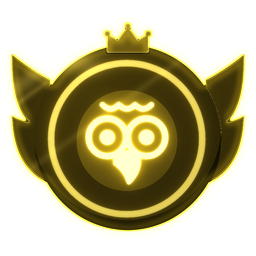
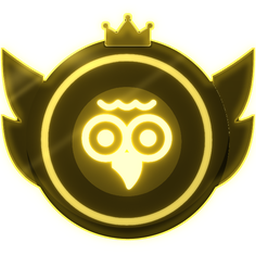
獲得中バッジの黄色い縁をバッジの丸に合わせ、小さかったネオン系バッジを拡大
Claude-Session: https://claude.ai/code/session_01TtjSjxUbG44cSCDU41LbQi

diff --git a/index.html b/index.html
@@ -319,6 +319,9 @@ body.sv-lock{overflow:hidden}
 .bitem.locked .badge{filter:grayscale(1);opacity:.35}
 .bitem.locked .badge b{opacity:.7}
 .bitem.newest .badge{outline:3px solid var(--gold);outline-offset:3px}
+.bitem.newest .badge.has-img{outline:none}
+.bitem.newest .badge.has-img::after{content:"";position:absolute;left:50%;top:var(--cy,50%);width:calc(80% + 12px);aspect-ratio:1;border-radius:50%;
+  transform:translate(-50%,-50%);border:3px solid var(--gold);box-sizing:border-box;pointer-events:none}
 .toast{position:fixed;left:50%;top:calc(14px + env(safe-area-inset-top,0px));z-index:80;transform:translate(-50%,-160%);transition:transform .4s cubic-bezier(.3,1.4,.5,1);
   display:flex;align-items:center;gap:12px;background:var(--surface);border:2px solid var(--gold);border-bottom-width:5px;border-radius:18px;padding:10px 16px;max-width:calc(100% - 32px);box-shadow:0 10px 30px rgba(0,0,0,.18)}
 .toast.show{transform:translate(-50%,0)}
@@ -518,7 +521,8 @@ function dkey(d){return d.getFullYear()+'-'+(d.getMonth()+1)+'-'+d.getDate()}
 function today(){return dkey(new Date())}
 // ---- daily goal, points and badges ----
 const BADGES=[0,10,30,50,100,150,200,250,300,350,400,450,500,600,700,800,900,1000,1500,2000,2500,3000,3500,4000,4500,5000,6000,7000,8000,9000,10000];
-const BADGE_ART=new Set(BADGES);   // every badge now has a picture in badges/badge-<points>.png   // badges that have a picture in badges/badge-<points>.png
+const BADGE_ART=new Set(BADGES);
+const CROWN=new Set([50,200,350,500,800,1500,3000,4500,7000,10000]);   // crowned badges sit a little lower in their picture   // every badge now has a picture in badges/badge-<points>.png   // badges that have a picture in badges/badge-<points>.png
 function todayState(){const t=today();if(S.td.d!==t)S.td={d:t,pts:{},done:{}};return S.td}
 function doneCount(){return Object.keys(todayState().done).length}
 function checkGoal(){
@@ -551,7 +555,7 @@ const PARROT_FACE=`<svg class="bface" viewBox="0 0 100 100" aria-hidden="true">
 </svg>`;
 function badgeHTML(p,small){
   const tier=BADGES.indexOf(p), hue=[45,30,10,340,300,265,220,190,160,130][Math.min(9,Math.floor(tier/3.1))];
-  if(BADGE_ART.has(p))return `<div class="badge has-img"><img src="badges/badge-${p}.png" alt="${p}ポイントのバッジ"></div>`;
+  if(BADGE_ART.has(p))return `<div class="badge has-img" style="--cy:${CROWN.has(p)?54:50}%"><img src="badges/badge-${p}.png" alt="${p}ポイントのバッジ"></div>`;
   return `<div class="badge" style="--c1:hsl(${hue} 95% 62%);--c2:hsl(${hue} 85% 42%)">${PARROT_FACE}</div>`;
 }
 let toastTimer=null;

diff --git a/src/template.html b/src/template.html
@@ -301,6 +301,9 @@ body.sv-lock{overflow:hidden}
 .bitem.locked .badge{filter:grayscale(1);opacity:.35}
 .bitem.locked .badge b{opacity:.7}
 .bitem.newest .badge{outline:3px solid var(--gold);outline-offset:3px}
+.bitem.newest .badge.has-img{outline:none}
+.bitem.newest .badge.has-img::after{content:"";position:absolute;left:50%;top:var(--cy,50%);width:calc(80% + 12px);aspect-ratio:1;border-radius:50%;
+  transform:translate(-50%,-50%);border:3px solid var(--gold);box-sizing:border-box;pointer-events:none}
 .toast{position:fixed;left:50%;top:calc(14px + env(safe-area-inset-top,0px));z-index:80;transform:translate(-50%,-160%);transition:transform .4s cubic-bezier(.3,1.4,.5,1);
   display:flex;align-items:center;gap:12px;background:var(--surface);border:2px solid var(--gold);border-bottom-width:5px;border-radius:18px;padding:10px 16px;max-width:calc(100% - 32px);box-shadow:0 10px 30px rgba(0,0,0,.18)}
 .toast.show{transform:translate(-50%,0)}
@@ -498,7 +501,8 @@ function dkey(d){return d.getFullYear()+'-'+(d.getMonth()+1)+'-'+d.getDate()}
 function today(){return dkey(new Date())}
 // ---- daily goal, points and badges ----
 const BADGES=[0,10,30,50,100,150,200,250,300,350,400,450,500,600,700,800,900,1000,1500,2000,2500,3000,3500,4000,4500,5000,6000,7000,8000,9000,10000];
-const BADGE_ART=new Set(BADGES);   // every badge now has a picture in badges/badge-<points>.png   // badges that have a picture in badges/badge-<points>.png
+const BADGE_ART=new Set(BADGES);
+const CROWN=new Set([50,200,350,500,800,1500,3000,4500,7000,10000]);   // crowned badges sit a little lower in their picture   // every badge now has a picture in badges/badge-<points>.png   // badges that have a picture in badges/badge-<points>.png
 function todayState(){const t=today();if(S.td.d!==t)S.td={d:t,pts:{},done:{}};return S.td}
 function doneCount(){return Object.keys(todayState().done).length}
 function checkGoal(){
@@ -531,7 +535,7 @@ const PARROT_FACE=`<svg class="bface" viewBox="0 0 100 100" aria-hidden="true">
 </svg>`;
 function badgeHTML(p,small){
   const tier=BADGES.indexOf(p), hue=[45,30,10,340,300,265,220,190,160,130][Math.min(9,Math.floor(tier/3.1))];
-  if(BADGE_ART.has(p))return `<div class="badge has-img"><img src="badges/badge-${p}.png" alt="${p}ポイントのバッジ"></div>`;
+  if(BADGE_ART.has(p))return `<div class="badge has-img" style="--cy:${CROWN.has(p)?54:50}%"><img src="badges/badge-${p}.png" alt="${p}ポイントのバッジ"></div>`;
   return `<div class="badge" style="--c1:hsl(${hue} 95% 62%);--c2:hsl(${hue} 85% 42%)">${PARROT_FACE}</div>`;
 }
 let toastTimer=null;

diff --git a/sw.js b/sw.js
@@ -1,5 +1,5 @@
 // Network first for the app itself so updates show right away; cached copy when offline.
-const CACHE='phrase1000-v18';
+const CACHE='phrase1000-v19';
 const CORE=['./','index.html','manifest.webmanifest','apple-touch-icon-parrot.png','icon-192-parrot.png','icon-512-parrot.png'];
 self.addEventListener('install',e=>{e.waitUntil(caches.open(CACHE).then(c=>c.addAll(CORE)));self.skipWaiting()});
 self.addEventListener('activate',e=>{e.waitUntil(caches.keys().then(ks=>Promise.all(ks.filter(k=>k!==CACHE).map(k=>caches.delete(k)))).then(()=>self.clients.claim()))});
